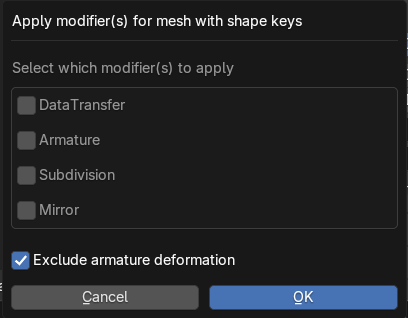
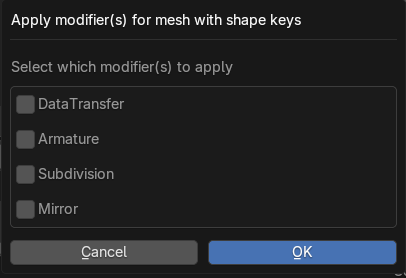
update readme information.

diff --git a/README.md b/README.md
@@ -50,30 +50,27 @@ After activating the tool you will see a popup dialog box.
 Chose which modifiers to apply and click OK
 
 
-### Exclude Armature Deformation
-
-If there is an armature modifier on the active mesh (and it is enabled).  You will see an option to exlcude this deformation when applying the other modifiers.  This will temporarily disable the armature modifier so it does not influence the mesh when the other modifiers are being applied and will be re-enabled at the end.
-
 ## How it Functions
 
 1. **Duplicate Mesh**:  
-    - The add-on creates a duplicate of the original mesh, removes all the shape keys, and applies the selected modifier(s).
+    - The add-on creates a duplicate of the original mesh, removes all the shape keys, and applies the selected modifier(s) by evaluating the mesh and swapping it out (it avoids using the apply modifiers operator).
 
 2. **Loop through Shape Keys**:  
     - For each shape key, it creates another duplicate of the mesh.
-    - It applies just that single shape key along with the selected modifier(s).
-    - It then merges this modified shape key back into the original mesh.
+    - It evaluates the mesh with just that single shape key active with the selected modifier(s) enabled.
+    - It then merges this new mesh back into the original as a shape key.
+    (it also avoids using the apply modifier operator)
 
 3. **Restore Shape Keys**:  
     - After processing all the shape keys, the add-on restores the original shape key values, animation data, and drivers (if applicable) on the original mesh.
 
-This process is done one shape key at a time to reduce the memory load on your machine, which is important if you're working with a high-density mesh (e.g., 200+ copies of a complex mesh).
+This process is done one shape key at a time to reduce the memory load on your machine, which is important if you're working with a high-density mesh and a lot of shape keys.
 
 ## Troubleshooting
 
-Theoretically, if you can apply the modifiers to the base shape and all your shape keys and the resulting meshes have the same number of vertices, the add-on will work with any modifier.
+Theoretically, if you can apply the modifiers to the base shape, and all your shape keys and the resulting meshes have the same number of vertices, the add-on will work with any modifier.
 
-However, as you may know, several Blender modifiers can change the number of vertices on the base mesh (e.g., Subdivision Surface, Mirror modifier with Bisect or Merge enabled, Geometry Nodes, etc.). This can cause problems because Blender can only join meshes with shape keys if they have the same number of vertices.
+However, as you may know, several Blender modifiers can change the number of vertices on the base mesh (e.g. Subdivision Surface, Mirror modifier with Bisect or Merge enabled, Geometry Nodes, etc.). This can cause problems because Blender can only join meshes with shape keys if they have the same number of vertices.
 
 ### What to Do If the Add-on Doesn't Work as Expected
 
